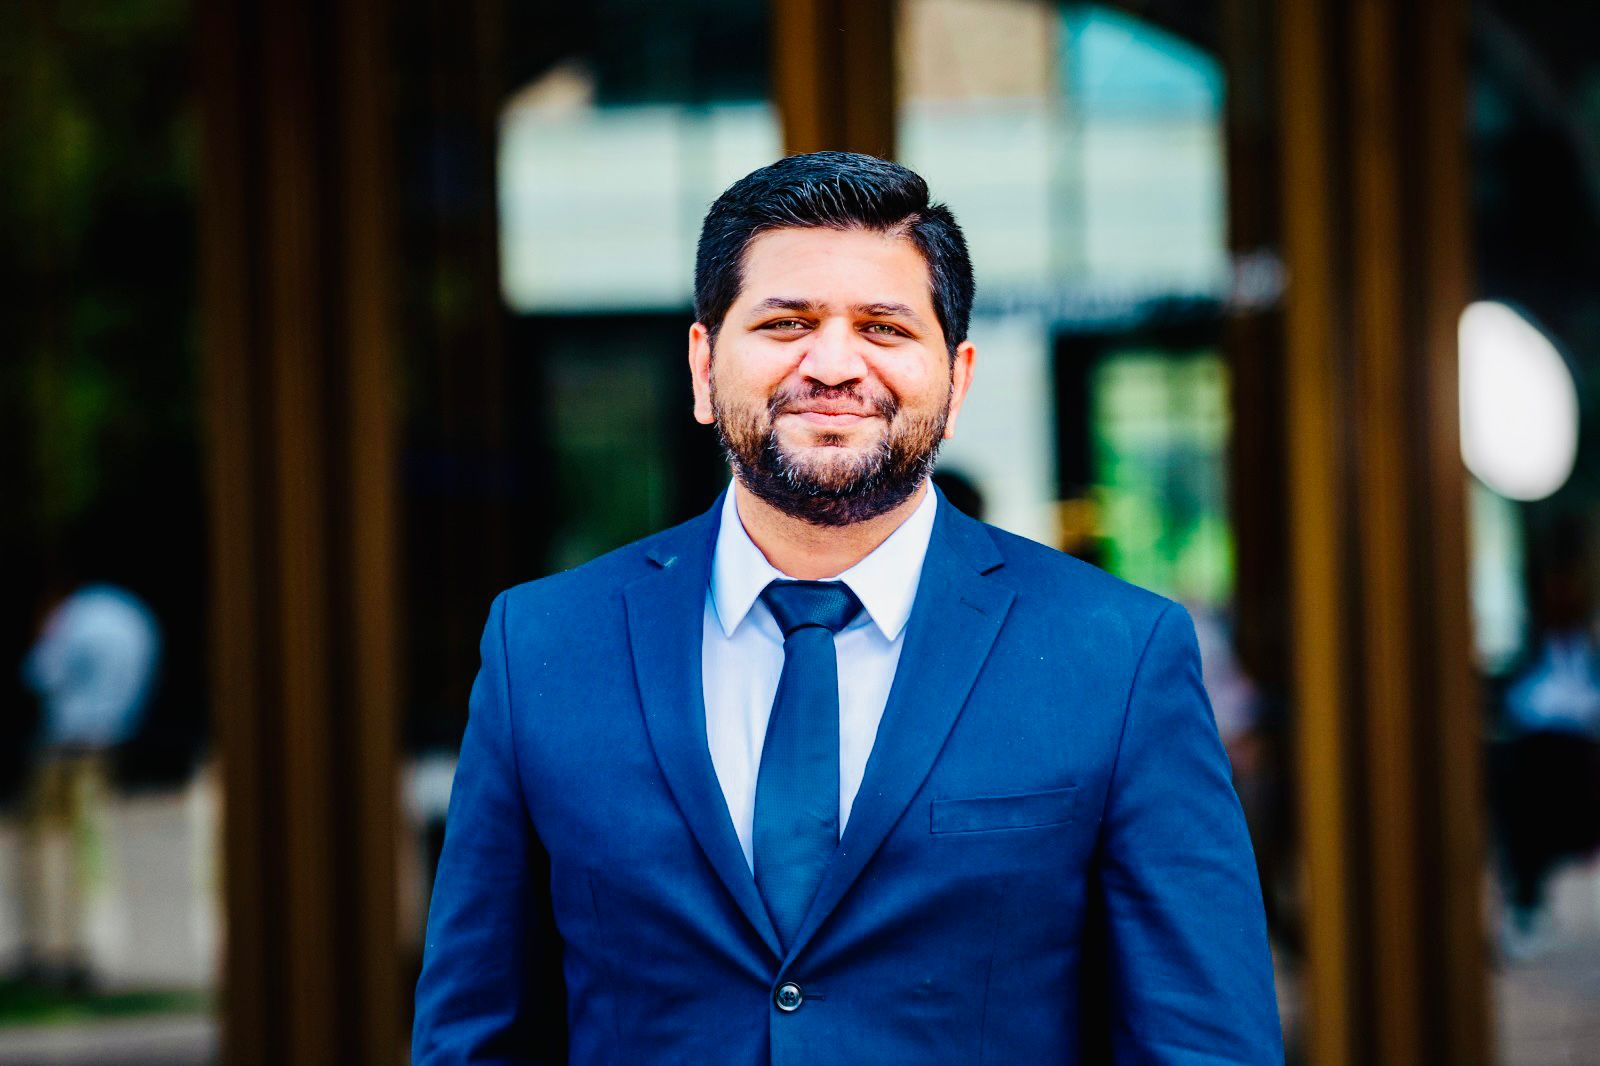
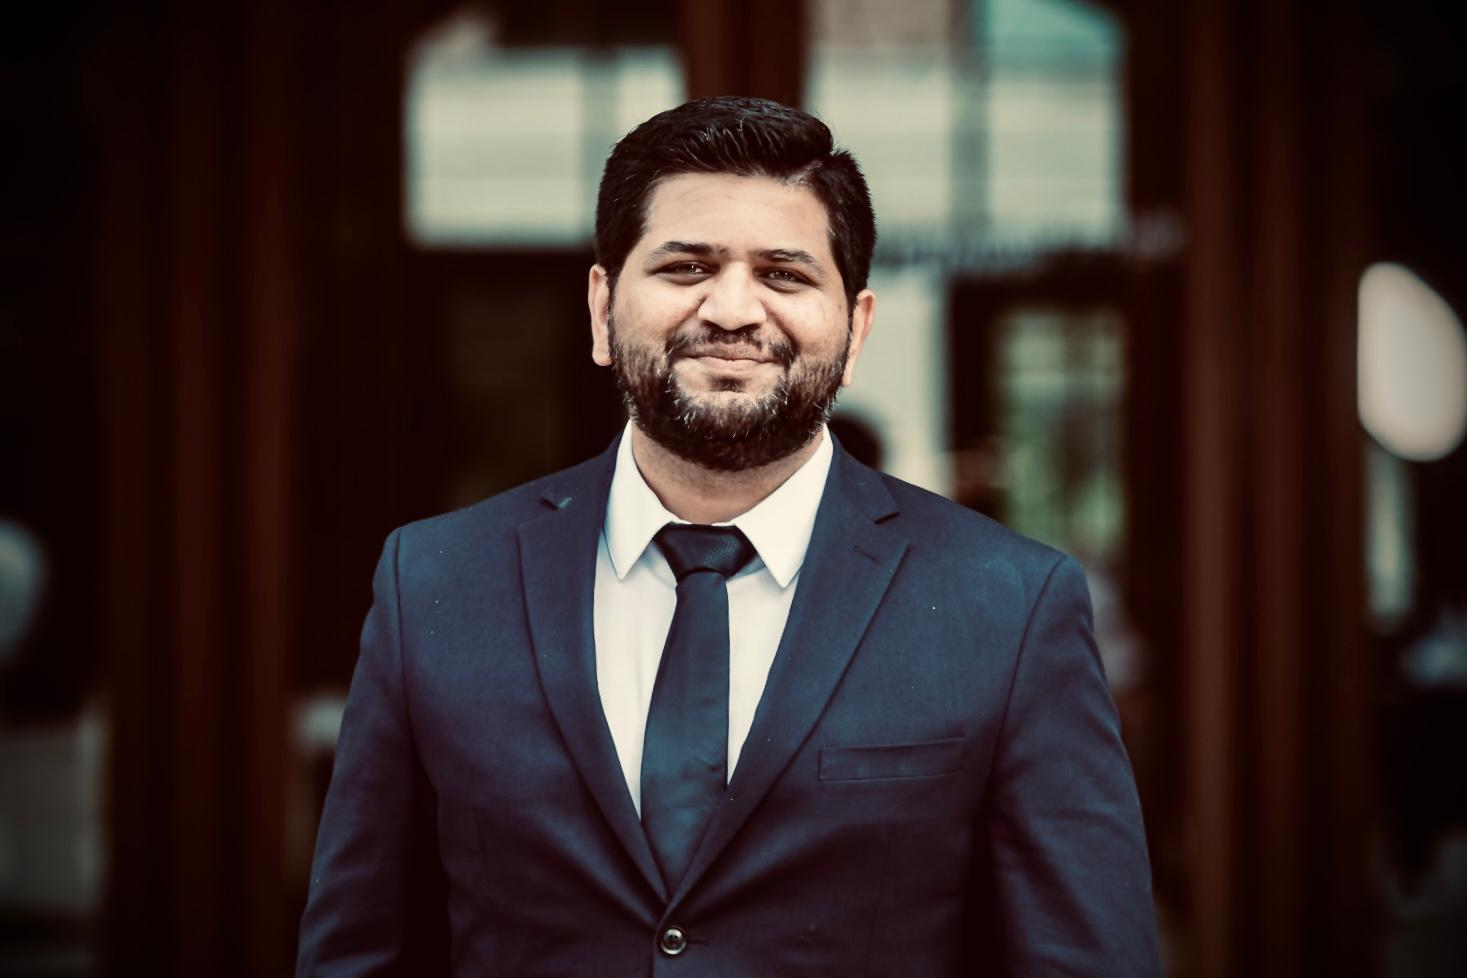
updated background image

diff --git a/css/main.css b/css/main.css
@@ -1658,7 +1658,7 @@ header .header-logo a {
 	left: 0;
 	width: 100%;
 	height: 100%;
-	opacity: .7;
+	/* opacity: .7; */
 	background: -moz-linear-gradient(left, black 0%, black 20%, transparent 100%);  /* FF3.6-15 */
 	background: -webkit-linear-gradient(left, black 0%, black 20%, transparent 100%);  /* Chrome10-25,Safari5.1-6 */
 	background: linear-gradient(to right, black 0%, black 20%, transparent 100%);  /* W3C, IE10+, FF16+, Chrome26+, Opera12+, Safari7+ */
@@ -1671,7 +1671,7 @@ header .header-logo a {
     left: 0;
     width: 100%;
     height: 100%;
-    opacity: .7;
+    opacity: 0;
     background-color: #000;
 }
 
